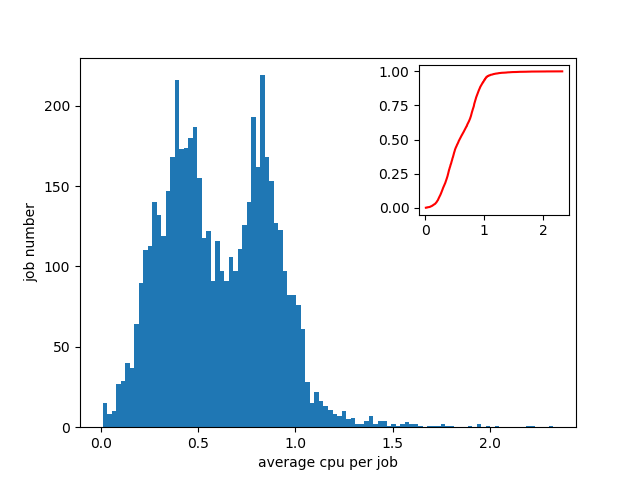
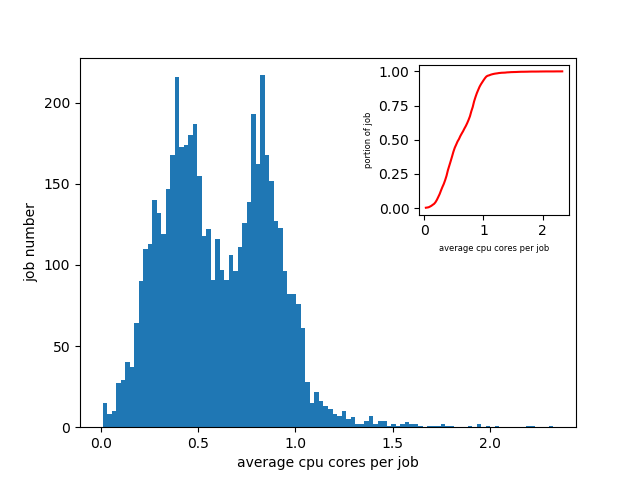
添加考虑时间因素进行batch job划分&更改绘图坐标标注

diff --git a/mysql_analysis/batch_job/job_category_at_time.py b/mysql_analysis/batch_job/job_category_at_time.py
@@ -1,0 +1,144 @@
+import matplotlib.pyplot as plt
+import MySQLdb as mdb
+import numpy as np
+from mpl_toolkits.axes_grid1.inset_locator import inset_axes
+
+
+def graph():
+    # 连接数据库
+    conn = mdb.connect(host='127.0.0.1', port=3306, user='root', passwd='root', db='alibaba_trace', charset='utf8')
+
+    # 如果使用事务引擎，可以设置自动提交事务，或者在每次操作完成后手动提交事务conn.commit()
+    conn.autocommit(1)  # conn.autocommit(True)
+
+    # 使用cursor()方法获取操作游标
+    cursor = conn.cursor()
+    # 因该模块底层其实是调用CAPI的，所以，需要先得到当前指向数据库的指针。
+    res = []
+    try:
+        cursor.execute("select machineID from workload_pattern where sss = 1 and sms = 1 and mss = 1 and mms = 1")
+        records = cursor.fetchall()
+        list_records = list(records)
+        res[:] = map(list, list_records)
+        machineID_1111 = [x[0] for x in res]
+
+        cursor.execute("select machineID from workload_pattern where sss = 1 and sms = 1 and mss = 1 and mms = 0")
+        records = cursor.fetchall()
+        list_records = list(records)
+        res[:] = map(list, list_records)
+        machineID_1110 = [x[0] for x in res]
+
+        cursor.execute("select machineID from workload_pattern where sss = 1 and sms = 1 and mss = 0 and mms = 1")
+        records = cursor.fetchall()
+        list_records = list(records)
+        res[:] = map(list, list_records)
+        machineID_1101 = [x[0] for x in res]
+
+        cursor.execute("select machineID from workload_pattern where sss = 1 and sms = 1 and mss = 0 and mms = 0")
+        records = cursor.fetchall()
+        list_records = list(records)
+        res[:] = map(list, list_records)
+        machineID_1100 = [x[0] for x in res]
+
+        cursor.execute("select machineID from workload_pattern where sss = 1 and sms = 0 and mss = 1 and mms = 1")
+        records = cursor.fetchall()
+        list_records = list(records)
+        res[:] = map(list, list_records)
+        machineID_1011 = [x[0] for x in res]
+
+        cursor.execute("select machineID from workload_pattern where sss = 1 and sms = 0 and mss = 1 and mms = 0")
+        records = cursor.fetchall()
+        list_records = list(records)
+        res[:] = map(list, list_records)
+        machineID_1010 = [x[0] for x in res]
+
+        cursor.execute("select machineID from workload_pattern where sss = 1 and sms = 0 and mss = 0 and mms = 1")
+        records = cursor.fetchall()
+        list_records = list(records)
+        res[:] = map(list, list_records)
+        machineID_1001 = [x[0] for x in res]
+
+        cursor.execute("select machineID from workload_pattern where sss = 1 and sms = 0 and mss = 0 and mms = 0")
+        records = cursor.fetchall()
+        list_records = list(records)
+        res[:] = map(list, list_records)
+        machineID_1000 = [x[0] for x in res]
+
+        cursor.execute("select machineID from workload_pattern where sss = 0 and sms = 1 and mss = 1 and mms = 1")
+        records = cursor.fetchall()
+        list_records = list(records)
+        res[:] = map(list, list_records)
+        machineID_0111 = [x[0] for x in res]
+
+        cursor.execute("select machineID from workload_pattern where sss = 0 and sms = 1 and mss = 1 and mms = 0")
+        records = cursor.fetchall()
+        list_records = list(records)
+        res[:] = map(list, list_records)
+        machineID_0110 = [x[0] for x in res]
+
+        cursor.execute("select machineID from workload_pattern where sss = 0 and sms = 1 and mss = 0 and mms = 0")
+        records = cursor.fetchall()
+        list_records = list(records)
+        res[:] = map(list, list_records)
+        machineID_0100 = [x[0] for x in res]
+
+        cursor.execute("select machineID from workload_pattern where sss = 0 and sms = 1 and mss = 0 and mms = 1")
+        records = cursor.fetchall()
+        list_records = list(records)
+        res[:] = map(list, list_records)
+        machineID_0101 = [x[0] for x in res]
+
+        cursor.execute("select machineID from workload_pattern where sss = 0 and sms = 0 and mss = 1 and mms = 1")
+        records = cursor.fetchall()
+        list_records = list(records)
+        res[:] = map(list, list_records)
+        machineID_0011 = [x[0] for x in res]
+
+        cursor.execute("select machineID from workload_pattern where sss = 0 and sms = 0 and mss = 1 and mms = 0")
+        records = cursor.fetchall()
+        list_records = list(records)
+        res[:] = map(list, list_records)
+        machineID_0010 = [x[0] for x in res]
+
+        cursor.execute("select machineID from workload_pattern where sss = 0 and sms = 0 and mss = 0 and mms = 1")
+        records = cursor.fetchall()
+        list_records = list(records)
+        res[:] = map(list, list_records)
+        machineID_0001 = [x[0] for x in res]
+
+        cursor.execute("select machineID from workload_pattern where sss = 0 and sms = 0 and mss = 0 and mms = 0")
+        records = cursor.fetchall()
+        list_records = list(records)
+        res[:] = map(list, list_records)
+        machineID_0000 = [x[0] for x in res]
+
+
+    except:
+        import traceback
+        traceback.print_exc()
+        # 发生错误时回滚
+        conn.rollback()
+    finally:
+        # 关闭游标连接
+        cursor.close()
+        # 关闭数据库连接
+        conn.close()
+
+    fig = plt.figure()
+    ax1 = fig.add_subplot(1, 1, 1)
+    X = range(1,17)
+    Y = [len(machineID_0000), len(machineID_0001), len(machineID_0010), len(machineID_0011), len(machineID_0100), len(machineID_0101), len(machineID_0110),
+         len(machineID_0111), len(machineID_1000), len(machineID_1001), len(machineID_1010), len(machineID_1011), len(machineID_1100), len(machineID_1101),
+        len(machineID_1110), len(machineID_1111)]
+    ax1.bar(X, Y)
+    for a,b in zip(X,Y):
+        ax1.text(a, b+0.05, '%d' % b , ha='center', va= 'bottom',fontsize=11)
+    ax1.set_xlabel("workload pattern")
+    ax1.set_ylabel("machine number")
+    ax1.set_ylim(0, 800)
+    # plt.pie(Y,labels=X,autopct='%1.1f%%',shadow=False,startangle=90,pctdistance = 0.6)
+    plt.savefig("../../imgs_mysql/job_category_at_time")
+    plt.show()
+
+if __name__ == '__main__':
+    graph()

diff --git a/mysql_analysis/batch_job/job_cpu.py b/mysql_analysis/batch_job/job_cpu.py
@@ -15,7 +15,7 @@ def graph():
     cursor = conn.cursor()
     # 因该模块底层其实是调用CAPI的，所以，需要先得到当前指向数据库的指针。
     try:
-        cursor.execute("select a.job_id, avg(a.cpu), avg(a.mem) from (select job_id, avg(real_cpu_avg) as cpu, avg(real_mem_avg) as mem from batch_instance where real_mem_avg > 0 group by task_id) a group by job_id")
+        cursor.execute("select a.job_id, avg(a.cpu), avg(a.mem) from (select job_id, avg(real_cpu_avg) as cpu, avg(real_mem_avg) as mem from batch_instance where real_mem_avg > 0 and job_id is not NULL group by task_id) a group by job_id")
         records = cursor.fetchall()
         list_records = list(records)
 
@@ -35,6 +35,7 @@ def graph():
     job_id = [x[0] for x in res]
     avg_cpu = [x[1] for x in res]
     avg_mem = [x[2] for x in res]
+    avg_mem.remove(max(avg_mem))
     print(max(avg_cpu))
     print(min(avg_cpu))
     print(max(avg_mem))
@@ -53,12 +54,14 @@ def graph():
     # plt.savefig('../imgs_mysql/cdf_of_job_cpu.png')
     # # 直方图
     # ax1.hist(avg_cpu, normed=False, alpha=1.0, bins=100)
-    # ax1.set_xlabel('average cpu per job')
+    # ax1.set_xlabel('average cpu cores per job')
     # ax1.set_ylabel('job number')
     # axins = inset_axes(ax1, width=1.5, height=1.5, loc='upper right')
-    # hist, bin_edges = np.histogram(avg_cpu, bins=len(np.unique(avg_cpu)))
+    # hist, bin_edges = np.histogram(avg_cpu, bins=100)
     # cdf = np.cumsum(hist / sum(hist))
     # axins.plot(bin_edges[1:], cdf, color='red', ls='-')
+    # axins.set_xlabel("average cpu cores per job", fontsize=6)
+    # axins.set_ylabel("portion of job", fontsize=6)
     # plt.savefig("../../imgs_mysql/hist_of_job_cpu")
 
     # memory
@@ -70,12 +73,17 @@ def graph():
     # plt.savefig('../imgs_mysql/cdf_of_job_memory.png')
     # 直方图
     ax1.hist(avg_mem, normed=False, alpha=1.0, bins=100)
-    ax1.set_xlabel('average memory per job')
+    ax1.set_xlabel('average normalized memory per job')
     ax1.set_ylabel('job number')
+    # ax1.set_yscale('log')
     axins = inset_axes(ax1, width=1.5, height=1.5, loc='upper right')
-    hist, bin_edges = np.histogram(avg_mem, bins=len(np.unique(avg_mem)))
+    hist, bin_edges = np.histogram(avg_mem, bins=100)
     cdf = np.cumsum(hist / sum(hist))
     axins.plot(bin_edges[1:], cdf, color='red', ls='-')
+    # axins.xticks(fontsize=7)
+    # axins.yticks(fontsize=7)
+    axins.set_xlabel("average memory cores per job", fontsize=7)
+    axins.set_ylabel("portion of job", fontsize=7)
     plt.savefig("../../imgs_mysql/hist_of_job_memory")
 
     plt.show()

diff --git a/mysql_analysis/batch_job/instance_num_machine_id.py b/mysql_analysis/batch_job/instance_num_machine_id.py
@@ -1,0 +1,65 @@
+import matplotlib.pyplot as plt
+import MySQLdb as mdb
+from matplotlib import colors
+import numpy as np
+from mpl_toolkits.axes_grid1.inset_locator import inset_axes
+
+
+def graph():
+    # 连接数据库
+    conn = mdb.connect(host='127.0.0.1', port=3306, user='root', passwd='root', db='alibaba_trace', charset='utf8')
+
+    # 如果使用事务引擎，可以设置自动提交事务，或者在每次操作完成后手动提交事务conn.commit()
+    conn.autocommit(1)  # conn.autocommit(True)
+
+    # 使用cursor()方法获取操作游标
+    cursor = conn.cursor()
+    # 因该模块底层其实是调用CAPI的，所以，需要先得到当前指向数据库的指针。
+    instance_num_list = []
+    X = []
+    x = 0
+    step = 60
+    while x < 86400-step:
+        x = x + step
+        X.append(x)
+    try:
+        fig = plt.figure()
+        ax1 = fig.add_subplot(1, 1, 1)
+        norm = colors.Normalize(vmin=0, vmax=100)
+        for machine_id in range(1, 1314):
+            for i in X:
+                print(i)
+                cursor.execute(
+                    'select count(id) from batch_instance_2 where machineID = %d and start_timestamp <= %d and end_timestamp >= %d' % (machine_id,i,i))
+                records = cursor.fetchall()
+                list_records = list(records)
+                res = []
+                res[:] = map(list, list_records)
+                instance_num = [x[0] for x in res]
+                instance_num_list.append(instance_num)
+            X_label = [x/3600 for x in X]
+            ax1.scatter(X_label, range(1, 1314), c=instance_num_list, norm=norm, alpha=0.5, s=2.0)
+
+    except:
+        import traceback
+        traceback.print_exc()
+        # 发生错误时回滚
+        conn.rollback()
+    finally:
+        # 关闭游标连接
+        cursor.close()
+        # 关闭数据库连接
+        conn.close()
+
+    # 绘制渐变色标注
+    gci = plt.scatter(X_label, range(1, 1314), c=instance_num_list, norm=norm, alpha=0.5, s=2.0)
+    cbar = plt.colorbar(gci)
+    cbar.set_label('used')
+    cbar.set_ticks(np.linspace(0, 100, 6))
+    ax1.set_xlabel("time(h)")
+    ax1.set_ylabel("machineID")
+    plt.savefig("../../imgs_mysql/instance_number_machine_id")
+    plt.show()
+
+if __name__ == '__main__':
+    graph()

diff --git a/mysql_analysis/batch_job/instance_number_of_one_machine.py b/mysql_analysis/batch_job/instance_number_of_one_machine.py
@@ -1,0 +1,65 @@
+import matplotlib.pyplot as plt
+import MySQLdb as mdb
+import numpy as np
+from mpl_toolkits.axes_grid1.inset_locator import inset_axes
+
+
+def graph():
+    # 连接数据库
+    conn = mdb.connect(host='127.0.0.1', port=3306, user='root', passwd='root', db='alibaba_trace', charset='utf8')
+
+    # 如果使用事务引擎，可以设置自动提交事务，或者在每次操作完成后手动提交事务conn.commit()
+    conn.autocommit(1)  # conn.autocommit(True)
+
+    # 使用cursor()方法获取操作游标
+    cursor = conn.cursor()
+    # 因该模块底层其实是调用CAPI的，所以，需要先得到当前指向数据库的指针。
+    instance_num_list = []
+    X = []
+    x = 0
+    step = 60
+    while x < 86400-step:
+        x = x + step
+        X.append(x)
+    try:
+        for i in X:
+            print(i)
+            cursor.execute(
+                'select count(id) from batch_instance_2 where machineID = 656 and start_timestamp <= %d and end_timestamp >= %d' % (i,i))
+            records = cursor.fetchall()
+            list_records = list(records)
+            res = []
+            res[:] = map(list, list_records)
+            instance_num = [x[0] for x in res]
+            instance_num_list.append(instance_num)
+
+    except:
+        import traceback
+        traceback.print_exc()
+        # 发生错误时回滚
+        conn.rollback()
+    finally:
+        # 关闭游标连接
+        cursor.close()
+        # 关闭数据库连接
+        conn.close()
+
+    fig = plt.figure()
+    ax1 = fig.add_subplot(1, 1, 1)
+    X = [x/3600 for x in X]
+    print(len(X))
+    print(len(instance_num_list))
+    print(np.average(instance_num_list))
+    print(np.max(instance_num_list))
+    print(np.min(instance_num_list))
+    ax1.plot(X, instance_num_list)
+    ax1.axhline(np.average(instance_num_list),linewidth=1, color='r', ls='--', label='average value')
+    plt.annotate('average value', xy=(20, 20), xytext=(22, 28),arrowprops=dict(facecolor='black', shrink=0.05))
+    ax1.set_xlabel("time(h)")
+    ax1.set_ylabel("instance number")
+    ax1.set_xlim(0, 24)
+    plt.savefig("../../imgs_mysql/instance_number_all_time")
+    plt.show()
+
+if __name__ == '__main__':
+    graph()

diff --git a/mysql_analysis/batch_job/job_duration.py b/mysql_analysis/batch_job/job_duration.py
@@ -101,12 +101,14 @@ def graph():
     print((max(job_duration) - min(job_duration)) /100)
     ax1.set_yscale('log')
     ax1.set_xlabel("job duration(h)")
-    ax1.set_ylabel("portion of job")
+    ax1.set_ylabel("job number")
     axins = inset_axes(ax1, width=1.5, height=1.5, loc='upper right')
     hist, bin_edges = np.histogram(job_duration, bins=100)
     cdf = np.cumsum(hist / sum(hist))
     axins.plot(bin_edges[1:], cdf, color='red', ls='-')
     axins.set_xscale('log')
+    axins.set_xlabel("job duration(h)", fontsize=7)
+    axins.set_ylabel("portion of job", fontsize=7)
     print(len(np.unique(job_duration)))
 
     plt.savefig("../../imgs_mysql/job_duration_hist.png")

diff --git a/mysql_analysis/online_service/machine_instance_num.py b/mysql_analysis/online_service/machine_instance_num.py
@@ -58,8 +58,8 @@ def graph():
     cdf = np.cumsum(hist / sum(hist))
     axins.plot(bin_edges[1:], cdf, color='red', ls='-')
     # axins.set_yticks([])  # 设置y轴不显示刻度值
-    # axins.set_xlabel("instance number per machine")
-    # axins.set_ylabel("portion of machine")
+    axins.set_xlabel("instance number per machine", fontsize=6)
+    axins.set_ylabel("portion of machine", fontsize=6)
 
     plt.savefig("../../imgs_mysql/container_machine_instance_num")
     plt.show()

diff --git a/mysql_analysis/batch_job/task_duration_of_job.py b/mysql_analysis/batch_job/task_duration_of_job.py
@@ -50,6 +50,10 @@ def graph():
     cdf = np.cumsum(hist / sum(hist))
     axins.plot(bin_edges[1:], cdf, color='red', ls='-')
     axins.set_xscale('log')
+    # axins.set_xticks(fontsize=7)
+    # axins.set_yticks(fontsize=7)
+    axins.set_xlabel("average task duration(h)", fontsize=7)
+    axins.set_ylabel("portion of job", fontsize=7)
     # axins.set_yticks([])
 
     plt.savefig("../../imgs_mysql/hist_of_task_duration_of_job")

diff --git a/mysql_analysis/batch_job/job_task_num.py b/mysql_analysis/batch_job/job_task_num.py
@@ -52,6 +52,8 @@ def graph():
     print(max(cdf))
     axins.plot(bin_edges[1:], cdf, color='red', ls='-')
     axins.set_xscale('log')
+    axins.set_xlabel("task number per job", fontsize=7)
+    axins.set_ylabel("portion of job", fontsize=7)
     # axins.set_yticks([])
 
     plt.savefig("../../imgs_mysql/hist_of_job_task_num")
